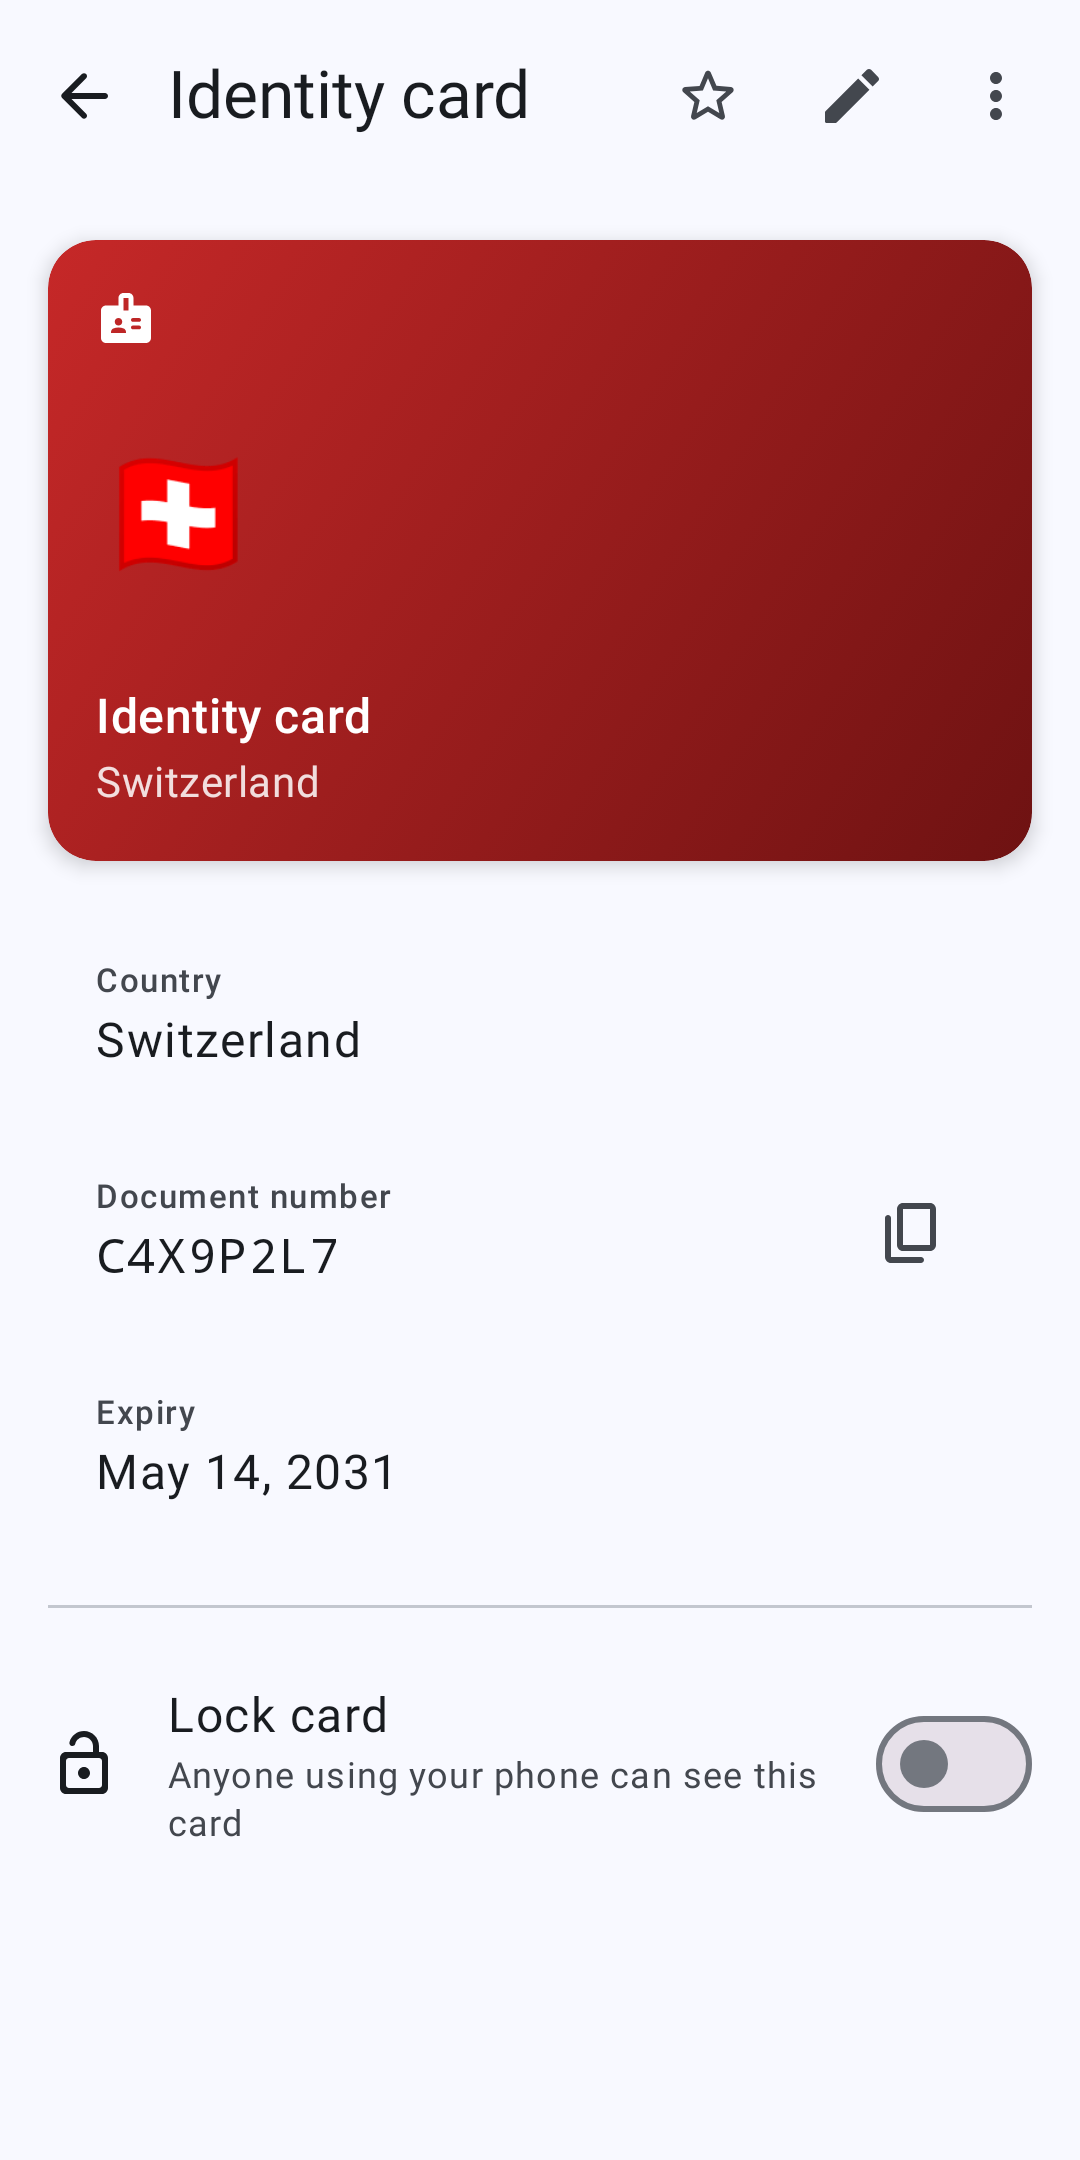
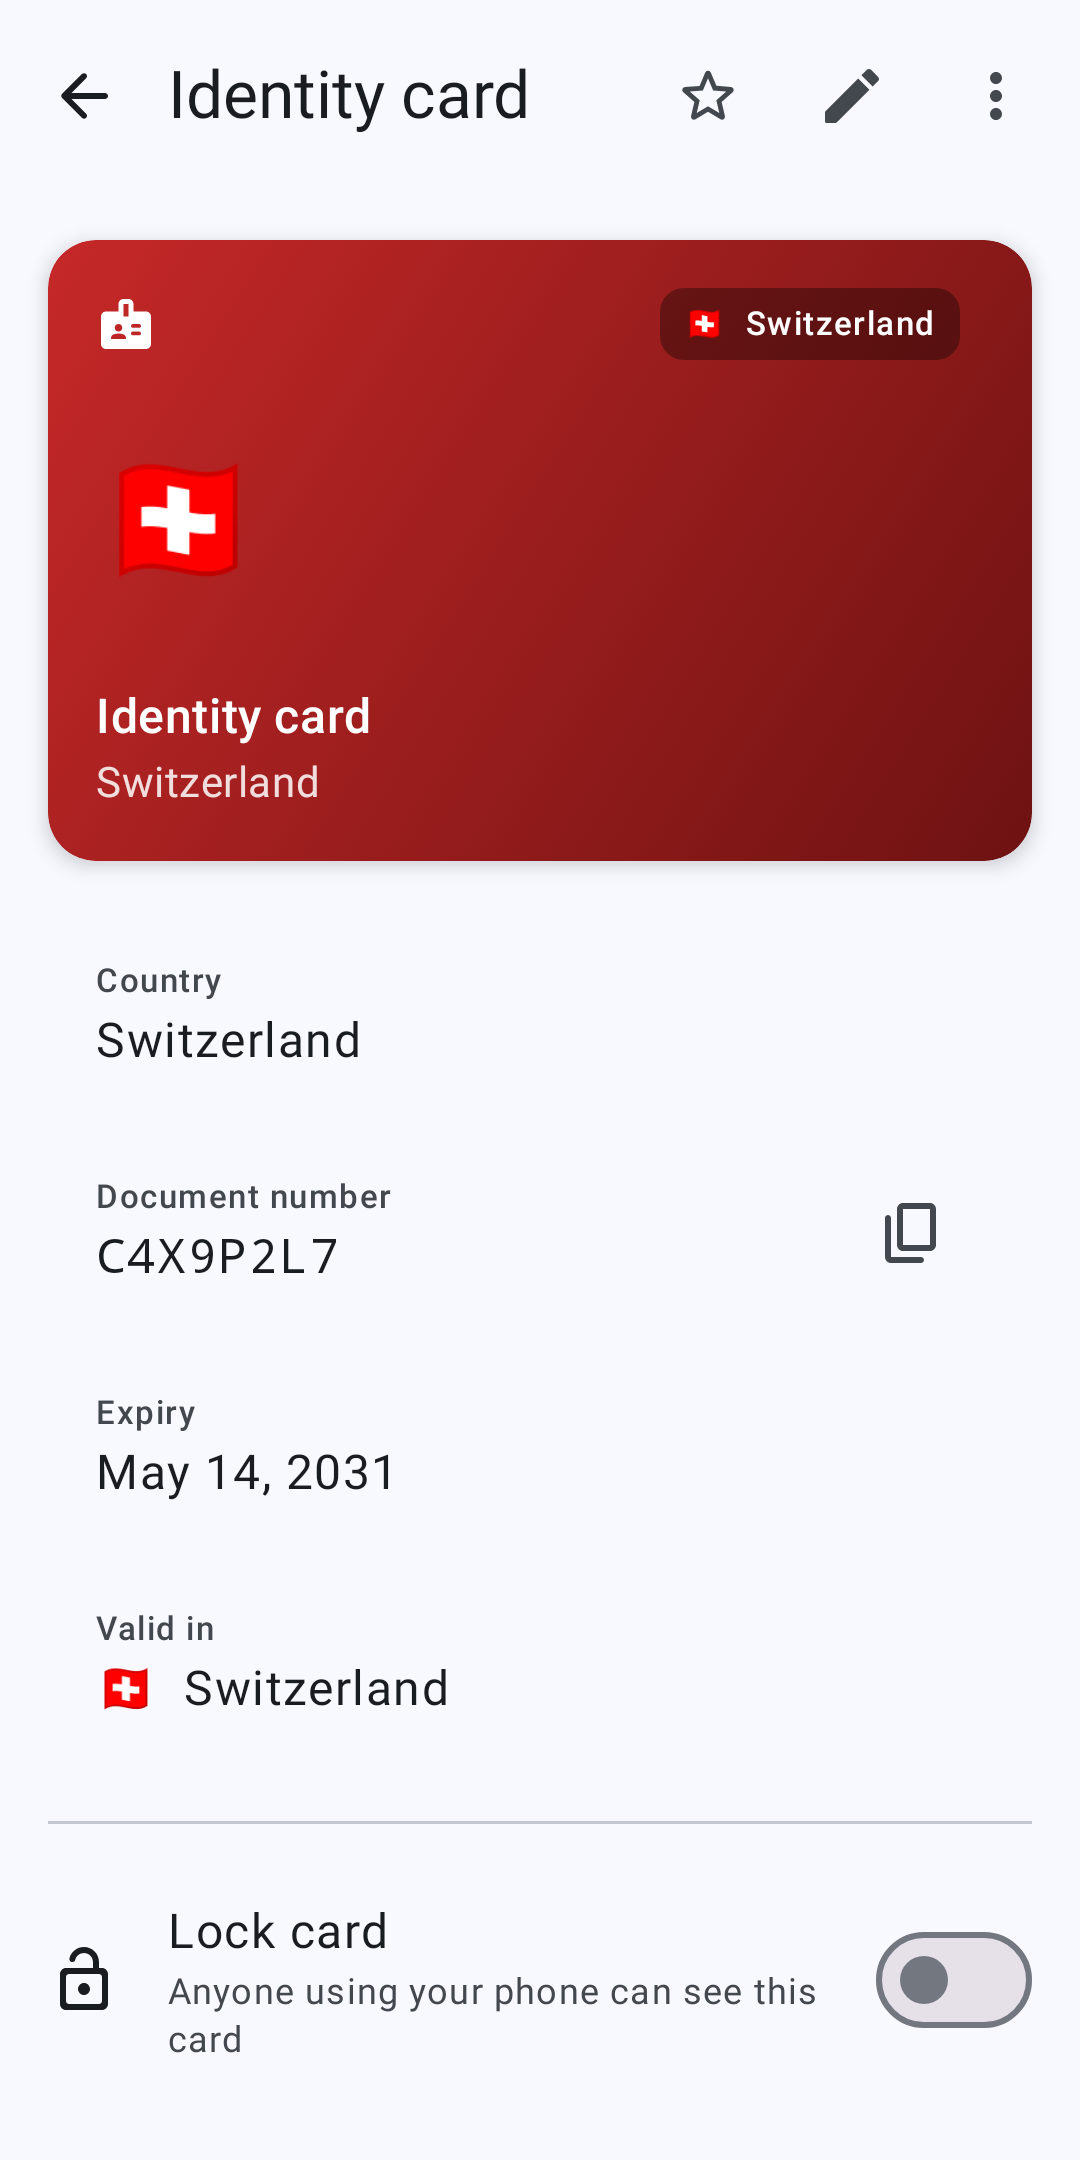
chore: satisfy detekt and re-record the store screenshots

diff --git a/core/location/src/main/kotlin/io/github/danyk20/cardholder/core/location/CountryLookup.kt b/core/location/src/main/kotlin/io/github/danyk20/cardholder/core/location/CountryLookup.kt
@@ -31,14 +31,10 @@ internal class CountryLookup(private val countries: List<CountryBorder>) {
             val near = point.latitude in country.minLat - latMargin..country.maxLat + latMargin &&
                 point.longitude in country.minLon - lonMargin..country.maxLon + lonMargin
             if (!near) continue
-            for (polygon in country.polygons) {
-                for (ring in polygon.rings) {
-                    val km = ring.nearestEdgeKm(point)
-                    if (km < bestKm) {
-                        bestKm = km
-                        best = country.code
-                    }
-                }
+            val km = country.nearestEdgeKm(point)
+            if (km < bestKm) {
+                bestKm = km
+                best = country.code
             }
         }
         return best
@@ -46,14 +42,26 @@ internal class CountryLookup(private val countries: List<CountryBorder>) {
 
     private companion object {
         const val COAST_TOLERANCE_KM = 25.0
-        const val KM_PER_DEGREE_LAT = 110.574
-        const val KM_PER_DEGREE_LON_AT_EQUATOR = 111.320
-        const val MIN_COS = 0.01
-
-        fun kmPerDegreeLon(latitude: Double): Double =
-            KM_PER_DEGREE_LON_AT_EQUATOR * max(cos(Math.toRadians(latitude)), MIN_COS)
     }
 }
+
+/** Distance in km from [point] to the nearest edge of any ring of the country. */
+private fun CountryBorder.nearestEdgeKm(point: GeoPoint): Double {
+    var best = Double.MAX_VALUE
+    for (polygon in polygons) {
+        for (ring in polygon.rings) {
+            best = min(best, ring.nearestEdgeKm(point))
+        }
+    }
+    return best
+}
+
+private const val KM_PER_DEGREE_LAT = 110.574
+private const val KM_PER_DEGREE_LON_AT_EQUATOR = 111.320
+private const val MIN_COS = 0.01
+
+private fun kmPerDegreeLon(latitude: Double): Double =
+    KM_PER_DEGREE_LON_AT_EQUATOR * max(cos(Math.toRadians(latitude)), MIN_COS)
 
 /** Even-odd test over all rings of the polygon: a point in a hole is outside. */
 private fun BorderPolygon.contains(point: GeoPoint): Boolean {
@@ -76,8 +84,8 @@ private fun BorderPolygon.contains(point: GeoPoint): Boolean {
 
 /** Distance in km from [point] to the nearest edge of the ring, in a local flat map around the point. */
 private fun BorderRing.nearestEdgeKm(point: GeoPoint): Double {
-    val kmLon = 111.320 * max(cos(Math.toRadians(point.latitude)), 0.01)
-    val kmLat = 110.574
+    val kmLon = kmPerDegreeLon(point.latitude)
+    val kmLat = KM_PER_DEGREE_LAT
     var best = Double.MAX_VALUE
     for (i in 0 until size) {
         val j = (i + 1) % size

diff --git a/core/location/src/test/kotlin/io/github/danyk20/cardholder/core/location/CountryBordersTest.kt b/core/location/src/test/kotlin/io/github/danyk20/cardholder/core/location/CountryBordersTest.kt
@@ -96,32 +96,36 @@ private fun encode(countries: List<TestCountry>): ByteArray {
     out.write("CHCB".toByteArray(Charsets.US_ASCII))
     out.write(1)
     out.varint(countries.size.toLong())
-    for (country in countries) {
-        out.write(country.code.toByteArray(Charsets.US_ASCII))
-        val points = country.polygons.flatMap { it.rings.flatten() }
-        out.zigzag(Math.round(points.minOf { it.first } * SCALE))
-        out.zigzag(Math.round(points.minOf { it.second } * SCALE))
-        out.zigzag(Math.round(points.maxOf { it.first } * SCALE))
-        out.zigzag(Math.round(points.maxOf { it.second } * SCALE))
-        out.varint(country.polygons.size.toLong())
-        for (polygon in country.polygons) {
-            out.varint(polygon.rings.size.toLong())
-            for (ring in polygon.rings) {
-                out.varint(ring.size.toLong())
-                var previousLat = 0L
-                var previousLon = 0L
-                for ((lat, lon) in ring) {
-                    val latUnits = Math.round(lat * SCALE)
-                    val lonUnits = Math.round(lon * SCALE)
-                    out.zigzag(latUnits - previousLat)
-                    out.zigzag(lonUnits - previousLon)
-                    previousLat = latUnits
-                    previousLon = lonUnits
-                }
-            }
-        }
-    }
+    countries.forEach { out.writeCountry(it) }
     return out.toByteArray()
+}
+
+private fun ByteArrayOutputStream.writeCountry(country: TestCountry) {
+    write(country.code.toByteArray(Charsets.US_ASCII))
+    val points = country.polygons.flatMap { it.rings.flatten() }
+    zigzag(Math.round(points.minOf { it.first } * SCALE))
+    zigzag(Math.round(points.minOf { it.second } * SCALE))
+    zigzag(Math.round(points.maxOf { it.first } * SCALE))
+    zigzag(Math.round(points.maxOf { it.second } * SCALE))
+    varint(country.polygons.size.toLong())
+    country.polygons.forEach { polygon ->
+        varint(polygon.rings.size.toLong())
+        polygon.rings.forEach { writeRing(it) }
+    }
+}
+
+private fun ByteArrayOutputStream.writeRing(ring: List<Pair<Double, Double>>) {
+    varint(ring.size.toLong())
+    var previousLat = 0L
+    var previousLon = 0L
+    for ((lat, lon) in ring) {
+        val latUnits = Math.round(lat * SCALE)
+        val lonUnits = Math.round(lon * SCALE)
+        zigzag(latUnits - previousLat)
+        zigzag(lonUnits - previousLon)
+        previousLat = latUnits
+        previousLon = lonUnits
+    }
 }
 
 private fun ByteArrayOutputStream.varint(value: Long) {

diff --git a/feature/cardlist/src/test/kotlin/io/github/danyk20/cardholder/feature/cardlist/StoreScreenshotTest.kt b/feature/cardlist/src/test/kotlin/io/github/danyk20/cardholder/feature/cardlist/StoreScreenshotTest.kt
@@ -5,6 +5,9 @@ import androidx.compose.ui.test.onRoot
 import androidx.test.ext.junit.runners.AndroidJUnit4
 import com.github.takahirom.roborazzi.captureRoboImage
 import io.github.danyk20.cardholder.core.designsystem.theme.CardholderTheme
+import io.github.danyk20.cardholder.core.domain.country.CountrySource
+import io.github.danyk20.cardholder.core.domain.country.CountryState
+import io.github.danyk20.cardholder.core.domain.country.CurrentCountry
 import io.github.danyk20.cardholder.core.domain.location.NearbyReason
 import io.github.danyk20.cardholder.core.domain.model.Country
 import io.github.danyk20.cardholder.core.model.Card
@@ -51,6 +54,19 @@ class StoreScreenshotTest {
         query = "",
         visibleTypes = CardType.entries.toSet(),
         hasAnyCards = true,
+        // The country row shows the country in use and the filter switched on, as in the app.
+        country = CountryChip(
+            state = CountryState(
+                effective = CurrentCountry(SWITZERLAND, CountrySource.NETWORK),
+                detected = CurrentCountry(SWITZERLAND, CountrySource.NETWORK),
+            ),
+            filterEnabled = true,
+        ),
+        countries = listOf(
+            Country(SWITZERLAND, "Switzerland"),
+            Country(GERMANY, "Germany"),
+            Country(AUSTRIA, "Austria"),
+        ),
     )
 
     @Test

diff --git a/core/location/src/main/kotlin/io/github/danyk20/cardholder/core/location/CountryBorderFormat.kt b/core/location/src/main/kotlin/io/github/danyk20/cardholder/core/location/CountryBorderFormat.kt
@@ -76,7 +76,7 @@ internal class ByteReader(private val bytes: ByteArray) {
 
     fun byte(): Int {
         require(position < bytes.size) { "Unexpected end of data" }
-        return bytes[position++].toInt() and 0xFF
+        return bytes[position++].toInt() and BYTE_MASK
     }
 
     fun bytes(count: Int): ByteArray {
@@ -90,9 +90,9 @@ internal class ByteReader(private val bytes: ByteArray) {
         while (true) {
             val value = byte()
             require(shift < MAX_VARINT_BITS) { "Varint too long" }
-            result = result or ((value and 0x7F).toLong() shl shift)
-            if (value and 0x80 == 0) return result
-            shift += 7
+            result = result or ((value and PAYLOAD_MASK).toLong() shl shift)
+            if (value and CONTINUATION == 0) return result
+            shift += PAYLOAD_BITS
         }
     }
 
@@ -102,6 +102,10 @@ internal class ByteReader(private val bytes: ByteArray) {
     }
 
     private companion object {
+        const val BYTE_MASK = 0xFF
+        const val PAYLOAD_MASK = 0x7F
+        const val CONTINUATION = 0x80
+        const val PAYLOAD_BITS = 7
         const val MAX_VARINT_BITS = 64
     }
 }

diff --git a/core/domain/src/main/kotlin/io/github/danyk20/cardholder/core/domain/usecase/ResolveCurrentCountryUseCase.kt b/core/domain/src/main/kotlin/io/github/danyk20/cardholder/core/domain/usecase/ResolveCurrentCountryUseCase.kt
@@ -44,8 +44,10 @@ class ResolveCurrentCountryUseCase @Inject constructor(
     }
 
     /** The country read now, from the network or else from location; `null` if neither gives one. */
-    private suspend fun freshDetection(): CurrentCountry? {
-        network.networkCountry()?.let { return CurrentCountry(it, CountrySource.NETWORK) }
+    private suspend fun freshDetection(): CurrentCountry? =
+        network.networkCountry()?.let { CurrentCountry(it, CountrySource.NETWORK) } ?: locationDetection()
+
+    private suspend fun locationDetection(): CurrentCountry? {
         if (!mayLookUpLocation()) return null
         val point = location.approximateLocation(LOCATION_MAX_AGE) ?: return null
         return borders.countryAt(point)?.let { CurrentCountry(it, CountrySource.LOCATION) }

diff --git a/feature/cardeditor/src/main/kotlin/io/github/danyk20/cardholder/feature/cardeditor/ui/DetailsForm.kt b/feature/cardeditor/src/main/kotlin/io/github/danyk20/cardholder/feature/cardeditor/ui/DetailsForm.kt
@@ -50,6 +50,7 @@ import io.github.danyk20.cardholder.feature.cardeditor.CardEditorUiState
 import io.github.danyk20.cardholder.feature.cardeditor.R
 
 /** Callbacks of the details form, grouped to keep composable signatures readable. */
+@Suppress("LongParameterList") // Grouping the callbacks by field is the point of this class.
 internal class DetailsActions(
     val onTitleChange: (String) -> Unit,
     val onNotesChange: (String) -> Unit,

diff --git a/feature/cardlist/src/main/kotlin/io/github/danyk20/cardholder/feature/cardlist/CardListViewModel.kt b/feature/cardlist/src/main/kotlin/io/github/danyk20/cardholder/feature/cardlist/CardListViewModel.kt
@@ -49,6 +49,7 @@ import kotlinx.coroutines.flow.stateIn
 import kotlinx.coroutines.flow.update
 
 @HiltViewModel
+@Suppress("LongParameterList", "TooManyFunctions") // One collaborator per parameter; one handler per action.
 class CardListViewModel @Inject constructor(
     private val observeCards: ObserveCardsUseCase,
     private val cardRepository: CardRepository,
